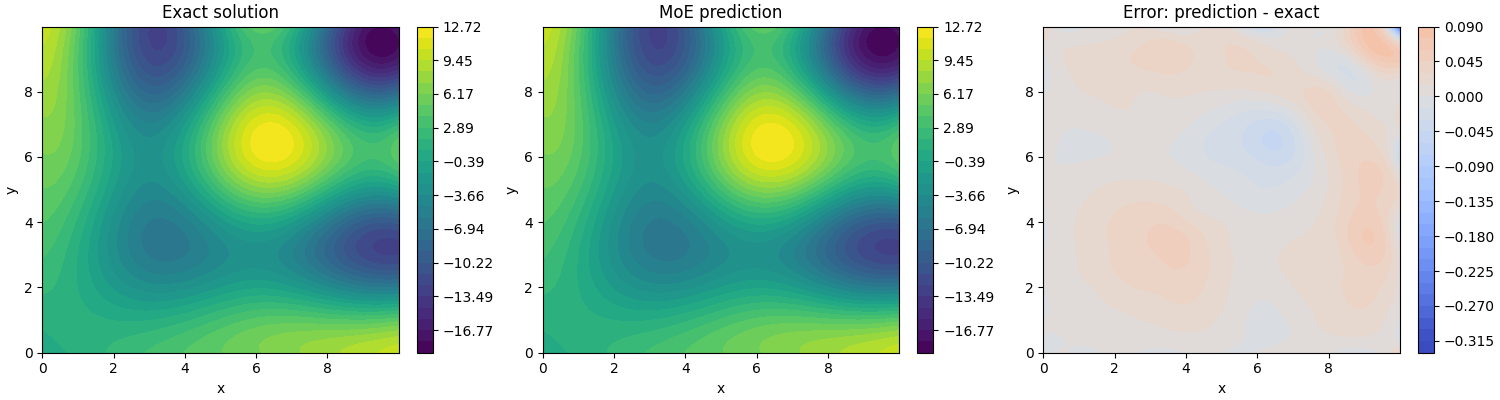
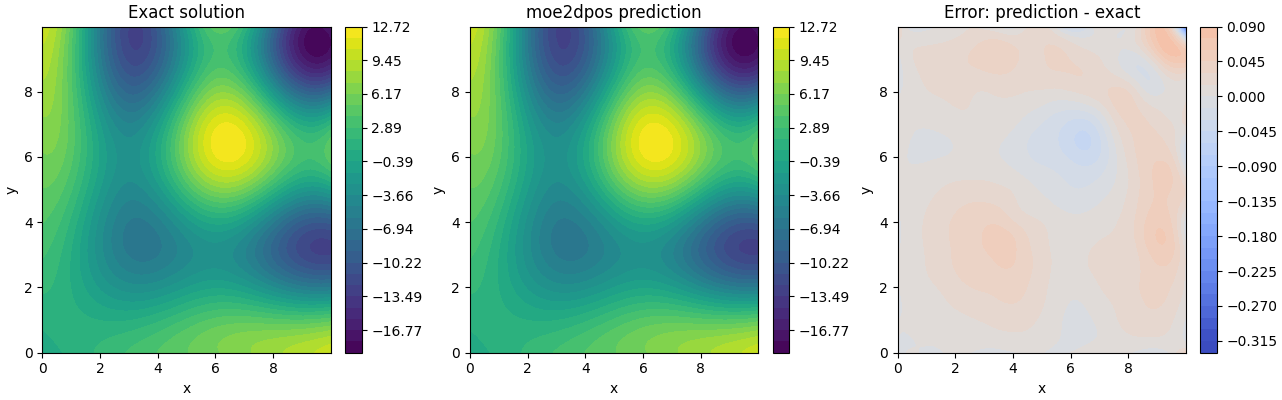
plots from hpc

diff --git a/PINN model/Plot2DPoisson.py b/PINN model/Plot2DPoisson.py
@@ -2,59 +2,70 @@ import numpy as np
 import matplotlib.pyplot as plt
 
 # Load data
-data = np.load("pinn2dpos.npz")
+data1 = np.load("pinn2dpos.npz")
+data2 = np.load("moe2dpos.npz")
 
-Xn = data["Xn"]
-Yn = data["Yn"] 
-u_pred_n = data["u_pred_n"]
-u_exact_n = data["u_exact_n"]
-error_n = data["error_n"]
+error_n1 = data1["error_n"]
+error_n2 = data2["error_n"]
 
-# Use same levels for exact and prediction
-vmin = min(u_exact_n.min(), u_pred_n.min())
-vmax = max(u_exact_n.max(), u_pred_n.max())
-levels = np.linspace(vmin, vmax, 30)
+err_max1 = np.max(np.abs(error_n1))
+err_max2 = np.max(np.abs(error_n2))
+err_max = max(err_max1, err_max2)
 
-# Separate symmetric scale for error
-err_max = np.max(np.abs(error_n))
-err_levels = np.linspace(-err_max, err_max, 30)
+for result in ("pinn2dpos.npz", "moe2dpos.npz"):
+    data = np.load(result)
 
-fig, axes = plt.subplots(1, 3, figsize=(15, 4), constrained_layout=True)
+    Xn = data["Xn"]
+    Yn = data["Yn"] 
+    u_pred_n = data["u_pred_n"]
+    u_exact_n = data["u_exact_n"]
+    error_n = data["error_n"]
 
-# Exact
-cf1 = axes[0].contourf(Xn, Yn, u_exact_n, levels=levels)
-axes[0].set_title("Exact solution")
-axes[0].set_xlabel("x")
-axes[0].set_ylabel("y")
-fig.colorbar(cf1, ax=axes[0])
+    # Use same levels for exact and prediction
+    vmin = min(u_exact_n.min(), u_pred_n.min())
+    vmax = max(u_exact_n.max(), u_pred_n.max())
+    levels = np.linspace(vmin, vmax, 30)
 
-# Prediction
-cf2 = axes[1].contourf(Xn, Yn, u_pred_n, levels=levels)
-axes[1].set_title("PINN prediction")
-axes[1].set_xlabel("x")
-axes[1].set_ylabel("y")
-fig.colorbar(cf2, ax=axes[1])
+    # Separate symmetric scale for error
+    # err_max = np.max(np.abs(error_n))
+    err_levels = np.linspace(-err_max, err_max, 30)
 
-# Error
-from matplotlib.colors import TwoSlopeNorm
+    fig, axes = plt.subplots(1, 3, figsize=(15, 4), constrained_layout=True)
 
-# Force 0 to be the center color
-err_norm = TwoSlopeNorm(
-    vmin=-err_max,
-    vcenter=0.0,
-    vmax=err_max
-)
+    # Exact
+    cf1 = axes[0].contourf(Xn, Yn, u_exact_n, levels=levels)
+    axes[0].set_title("Exact solution")
+    axes[0].set_xlabel("x")
+    axes[0].set_ylabel("y")
+    fig.colorbar(cf1, ax=axes[0])
 
-cf3 = axes[2].contourf(
-    Xn, Yn, error_n,
-    levels=30,
-    cmap="coolwarm",
-    norm=err_norm
-)
+    # Prediction
+    cf2 = axes[1].contourf(Xn, Yn, u_pred_n, levels=levels)
+    axes[1].set_title(f"{result.split('.')[0]} prediction")
+    axes[1].set_xlabel("x")
+    axes[1].set_ylabel("y")
+    fig.colorbar(cf2, ax=axes[1])
 
-axes[2].set_title("Error: prediction - exact")
-axes[2].set_xlabel("x")
-axes[2].set_ylabel("y")
-fig.colorbar(cf3, ax=axes[2])
+    # Error
+    from matplotlib.colors import TwoSlopeNorm
 
-plt.show()
+    # Force 0 to be the center color
+    err_norm = TwoSlopeNorm(
+        vmin=-err_max,
+        vcenter=0.0,
+        vmax=err_max
+    )
+
+    cf3 = axes[2].contourf(
+        Xn, Yn, error_n,
+        levels=30,
+        cmap="coolwarm",
+        norm=err_norm
+    )
+
+    axes[2].set_title("Error: prediction - exact")
+    axes[2].set_xlabel("x")
+    axes[2].set_ylabel("y")
+    fig.colorbar(cf3, ax=axes[2])
+
+    plt.show()